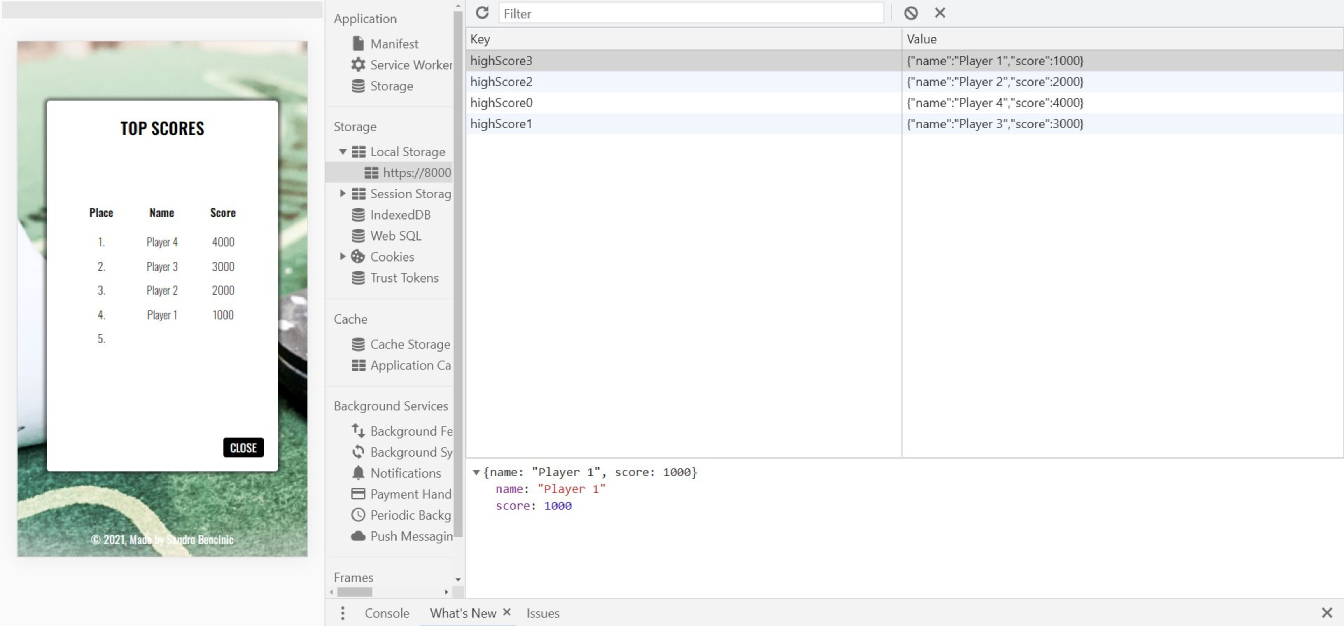
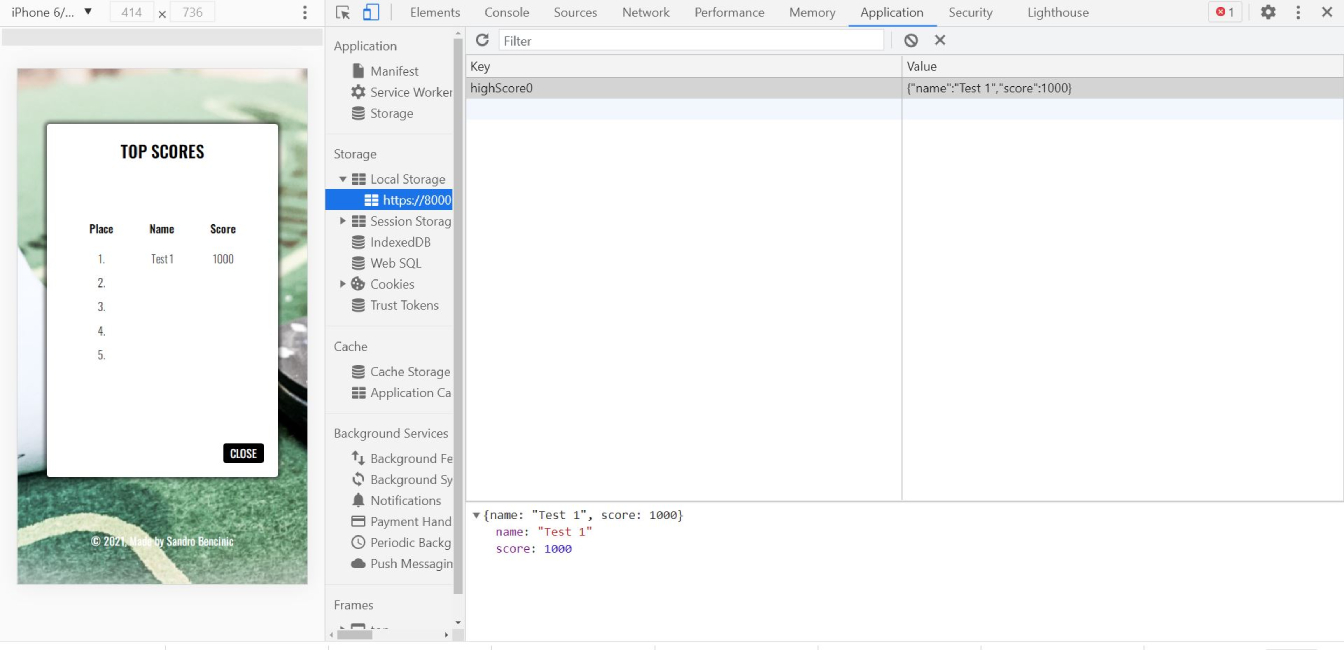
Update testing of highscore functionality in readme file with screenshots

diff --git a/documentation/testing/testing.md b/documentation/testing/testing.md
@@ -629,23 +629,29 @@ Outcome of the four possible scenarios is tested by manipulating data in local s
 
 ![test008](/documentation/testing/images/functions/008.jpg)
 
-- Case 2: There is less than 5 entries in local storage.
-
 ![test009](/documentation/testing/images/functions/009.jpg)
 
 ![test010](/documentation/testing/images/functions/010.jpg)
 
-- Case 3: There are 5 entires in local storage, and score is in top 5
+- Case 2: There is less than 5 entries in local storage.
 
 ![test011](/documentation/testing/images/functions/011.jpg)
 
 ![test012](/documentation/testing/images/functions/012.jpg)
 
-- Case 4: There are 5 entires in local storage, and score is not in top 5
-
 ![test013](/documentation/testing/images/functions/013.jpg)
 
+- Case 3: There are 5 entires in local storage, and score is in top 5
+
 ![test014](/documentation/testing/images/functions/014.jpg)
+
+![test015](/documentation/testing/images/functions/015.jpg)
+
+![test016](/documentation/testing/images/functions/016.jpg)
+
+- Case 4: There are 5 entires in local storage, and score is not in top 5
+
+![test017](/documentation/testing/images/functions/017.jpg)
 
 **Testing result:** Code is working properly
 
